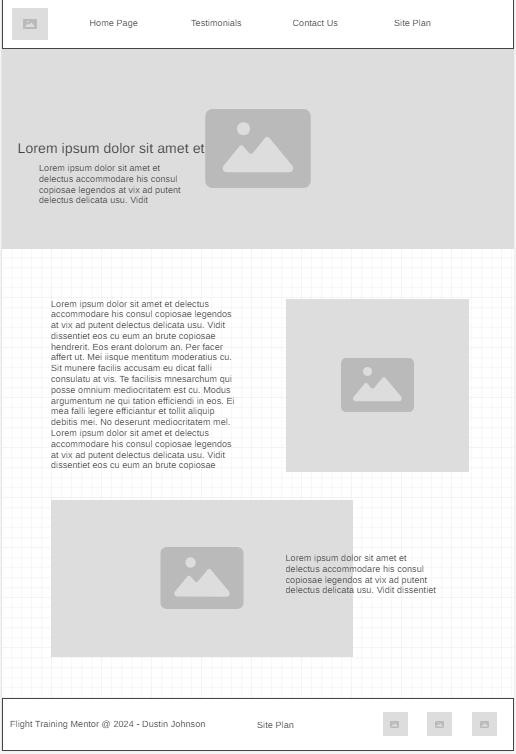
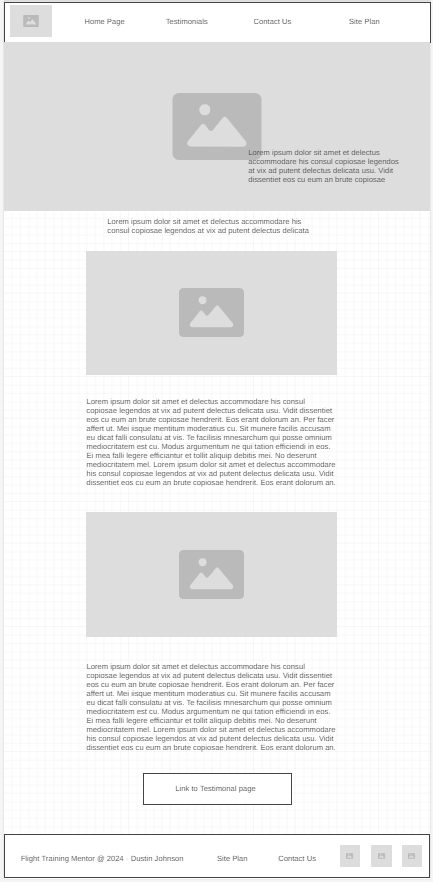
HOME PAGE COMLETE!

diff --git a/index.html b/index.html
@@ -3,6 +3,7 @@
 
 <head>
     <meta charset="UTF-8">
+    <meta http-equiv="X-UA-Compatible" content="IE=edge">
     <meta name="viewport" content="width=device-width, initial-scale=1.0">
     <title>Flight Training Mentor</title>
     <link rel="stylesheet" href="styles/index.css">
@@ -10,62 +11,79 @@
 </head>
 
 <body>
+    <div id="content">
+        <header>
+            <a id="logo_link" href="index.html">
+                <img class="logo" src="images/logo.png" alt="Flight Training Mentor Logo">
+            </a>
+            <nav>
+                <a href="index.html">Home Page</a>
+                <a href="page2.html">Testimonials</a>
+                <a href="contactus.html">Contact Us</a>
+                <a href="site-plan.html">Site Plan</a>
+            </nav>
+        </header>
 
-    <header>
-        <img class="logo-img" src="images/plane_1.png" alt="Flight Training Mentor Logo">
-        <nav>
-            <ul>
-                <li><a href="index.html">Home Page</a></li>
-                <li><a href="page2.html">Testimonials</a></li>
-                <li><a href="contactus.html">Contact Us</a></li>
-                <li><a href="site-plan.html">Site Plan</a></li>
-            </ul>
-        </nav>
-    </header>
-
-    <main>
-        <section class="Main-page-title">
-            <h1 class="Home-title">Flight Training Mentor</h1>
-            <h3 class="slogan">Fly High, Dream Big, Achieve More!</h3>
-            <img class="Main-img1" src="images/Plane_1.jpg" alt="Image of 3 Cessna 172 airplanes parked in front of sunset">
-        </section>
-        
-        <div class="Main-page-first-section">
-            <p class="about-homepage">Welcome to our vibrant and supportive community of seasoned aviation professionals and expert guides who are dedicated to steering you toward the achievement of your dream - obtaining a Private Pilot’s License! As you embark on your journey to becoming a proficient pilot, our home page stands as an invaluable resource, providing you with a gateway to acquiring a vast array of information tailored to empower aspiring aviators like yourself. As you pursue this journey, you will find a treasure trove of insights, tips, and guidance meticulously crafted to facilitate informed decision-making at every step of your flight training journey. Our mission is simple yet profound - to serve as your steadfast companion and trusted ally throughout the intricate and exhilarating process of obtaining your pilot’s license. Whether you're just taking your first steps into the world of aviation or are a seasoned enthusiast seeking to expand your horizons, our community is here to offer unwavering support and unparalleled expertise. No matter the question, we are committed to equipping you with the knowledge and resources necessary to soar to new heights of success. Our commitment to your success is unwavering, and we are dedicated to providing you with the tools and support you need to transform your dreams of flight into a tangible reality. We encourage you to peruse our testimonials page and success stories from individuals who have successfully acquired their private pilot licenses, sharing their gratitude for the invaluable guidance provided on this platform and expressing a wish that they had discovered it earlier in their aviation journey.</p>
-            <img class="Main-img2" src="images/Utah_View.jpg" alt="View of Utah mountains from aircraft window">
+        <div id="hero">
+            <div id="hero-box">
+                <img id="hero-img" src="images/Plane_3.jpg" alt="Image of multi engine aircraft">
+            </div>
+            <section id="home-msg">
+                <h1 class="home-title">Flight Training Mentor</h1>
+                <h4>Fly High, Dream Big, Achieve More!</h4>
+            </section>
         </div>
 
-        <div class="Main-page-second-section">
-            <p class="encourage-section">We encourage you to peruse our testimonials page and success stories from individuals who have successfully acquired their private pilot licenses, sharing their gratitude for the invaluable guidance provided on this platform and expressing a wish that they had discovered it earlier in their aviation journey.</p>
-            <img class="Main-img2" src="images/Plane_3.jpg" alt="Image of multi engine aircraft">
-            <ul>
-                <li><a href="page2.html">Testimonials</a></li>
-            </ul>
-        </div>
-    </main>
+        <main class="home-grid">
+            <article class="container">
+                <h2>Welcome to our dynamic community of experienced aviation mentors committed to guiding you towards your aviation aspirations</h2>
+                <img src="images/Utah_View.jpg" alt="View of Utah mountains from aircraft window">
+                <p>Discover our vibrant and supportive community of seasoned aviation
+                    professionals and expert guides who are dedicated to steering you toward the achievement of your
+                    dream - obtaining a Private Pilot’s License! As you embark on your journey to becoming a proficient
+                    pilot, our home page stands as an invaluable resource, providing you with a gateway to acquiring a
+                    vast array of information tailored to empower aspiring aviators like yourself.</p>
+                <p>As you pursue this
+                    journey, you will find a treasure trove of insights, tips, and guidance meticulously crafted to
+                    facilitate informed decision-making at every step of your flight training journey. Our mission is
+                    simple yet profound - to serve as your steadfast companion and trusted ally throughout the intricate
+                    and exhilarating process of obtaining your pilot’s license.</p>
+                <img src="images/Plane_1.jpg" alt="Image of 3 Cessna 172 airplanes parked in front of sunset">
+                <p>Whether you're just taking your first
+                    steps into the world of aviation or are a seasoned enthusiast seeking to expand your horizons, our
+                    community is here to offer unwavering support and unparalleled expertise. No matter the question, we
+                    are committed to equipping you with the knowledge and resources necessary to soar to new heights of
+                    success. Our commitment to your success is unwavering, and we are dedicated to providing you with
+                    the tools and support you need to transform your dreams of flight into a tangible reality.</p>
+                <p>We encourage you to peruse our testimonials page and success stories from individuals who have
+                    successfully acquired their private pilot licenses, sharing their gratitude for the invaluable
+                    guidance provided on this platform and expressing a wish that they had discovered it earlier in
+                    their aviation journey.</p>
 
-    <footer>
-        <div class="copyright">
+                <a class="join" href="page2.html">Testimonials</a>
+            </article>
+        </main>
+
+        <footer>
             <p>Flight Training Mentor &copy; 2024 - Dustin Johnson</p>
-            <a href="site-plan.html">Site Plan</a>
-        </div>
-        <div class="social">
-            <a href="https://facebook.com" target="_blank">
-                <img src="images/facebook.png" alt="fb icon">
-            </a>
-            <a href="https://twitter.com" target="_blank">
-                <img src="images/twitter.png" alt="twitter icon">
-            </a>
-            <a href="https://instagram.com" target="_blank">
-                <img src="images/instagram.png" alt="instagram icon">
-            </a>
-        </div>
-    </footer>
-    
+            <p><a href="site-plan.html">Site Plan</a></p>
+            <p><a href="contactus.html">Contact Us</a></p>
+            <div class="social">
+                <a href="https://facebook.com" target="_blank">
+                    <img src="images/facebook.png" alt="Facebook Icon">
+                </a>
+                <a href="https://twitter.com" target="_blank">
+                    <img src="images/twitter.png" alt="Twitter Icon">
+                </a>
+                <a href="https://instagram.com" target="_blank">
+                    <img src="images/instagram.png" alt="Instagram Icon">
+                </a>
+            </div>
+        </footer>
+    </div>
 </body>
 
 </html>
-
 
 
 <!-- Below you will find important notes from class -->

diff --git a/site-plan.html b/site-plan.html
@@ -20,7 +20,7 @@
       <hr>
       <h2>Overview</h2>
       <h3>Purpose</h3>
-      <p>Embark on an aviation journey with our website dedicated to help aspiring aviators on the path to becoming private pilots. We know navigating through flight training can be a daunting and confusing task. Our webpage helps simplify the journey by giving you the recorses to get expert advice from real-life aviators, ensuring you are well prepared for your training.</p>  <!-- change this -->
+      <p>Embark on an aviation journey with our website dedicated to help aspiring aviators on the path to becoming private pilots. We know navigating through flight training can be a daunting and confusing task. Our webpage provides the contact us page that will help simplify the journey by giving you expert advice from real-life aviators, ensuring you are well prepared for your training.</p>  <!-- change this -->
 
 
       <h3>Audience</h3>
@@ -124,7 +124,15 @@
       </h2>
       <h3>Home page</h3>
       <p>
-        Welcome to our vibrant and supportive community of seasoned aviation professionals and expert guides who are dedicated to steering you toward the achievement of your dream - obtaining a Private Pilot’s License! As you embark on your journey to becoming a proficient pilot, our home page stands as an invaluable resource, providing you with a gateway to acquiring a vast array of information tailored to empower aspiring aviators like yourself. As you pursue this journey, you will find a treasure trove of insights, tips, and guidance meticulously crafted to facilitate informed decision-making at every step of your flight training journey. Our mission is simple yet profound - to serve as your steadfast companion and trusted ally throughout the intricate and exhilarating process of obtaining your pilot’s license. Whether you're just taking your first steps into the world of aviation or are a seasoned enthusiast seeking to expand your horizons, our community is here to offer unwavering support and unparalleled expertise. No matter the question, we are committed to equipping you with the knowledge and resources necessary to soar to new heights of success. Our commitment to your success is unwavering, and we are dedicated to provide you with the tools and support you need to transform your dreams of flight into a tangible reality. We encourage you to peruse our testimonials page and success stories from individuals who have successfully acquired their private pilot licenses, sharing their gratitude for the invaluable guidance provided on this platform and expressing a wish that they had discovered it earlier in their aviation journey.
+        Welcome to our dynamic community of experienced aviation mentors committed to guiding you towards your aviation aspirations. 
+        
+        Discover our vibrant and supportive community of seasoned aviation professionals and expert guides who are dedicated to steering you toward the achievement of your dream - obtaining a Private Pilot’s License! As you embark on your journey to becoming a proficient pilot, our home page stands as an invaluable resource, providing you with a gateway to acquiring a vast array of information tailored to empower aspiring aviators like yourself.
+
+        As you pursue this journey, you will find a treasure trove of insights, tips, and guidance meticulously crafted to facilitate informed decision-making at every step of your flight training journey. Our mission is simple yet profound - to serve as your steadfast companion and trusted ally throughout the intricate and exhilarating process of obtaining your pilot’s license.
+
+        Whether you're just taking your first steps into the world of aviation or are a seasoned enthusiast seeking to expand your horizons, our community is here to offer unwavering support and unparalleled expertise. No matter the question, we are committed to equipping you with the knowledge and resources necessary to soar to new heights of success. Our commitment to your success is unwavering, and we are dedicated to providing you with the tools and support you need to transform your dreams of flight into a tangible reality.
+        
+        We encourage you to peruse our testimonials page and success stories from individuals who have successfully acquired their private pilot licenses, sharing their gratitude for the invaluable guidance provided on this platform and expressing a wish that they had discovered it earlier in their aviation journey.
       </p>
         <p>Images for the Home page</p>
         <img src="images/Plane_1.jpg" alt="Image of 3 Cessna 172 airplanes parked in front of sunset">
@@ -192,7 +200,7 @@
 
       <h3>Page 3</h3>
       <p>         
-        All text within the wireframe will be replaced with relevent text for the webpage. Page 3 will also incorporate a photo slide show of all the pictures form the web site right bellow the contact us box.
+        All text within the wireframe will be replaced with relevent text for the webpage. Page 3 will also incorporate a photo slide show of all the pictures shown on each page of the webpage.
       </p>
       <img src="images/Page3.png" alt="page 3 wireframe">
     </main>

diff --git a/styles/index.css b/styles/index.css
@@ -1,3 +1,153 @@
-.logoimg{
-    width: 50px
+@import url('https://fonts.googleapis.com/css2?family=Open+Sans:ital,wght@0,300..800;1,300..800&family=Playfair+Display:ital,wght@0,400..900;1,400..900&display=swap');
+
+
+nav {
+    display: flex;
+    justify-content: space-around;
+}
+nav a {
+    text-align: center;
+    color: burlywood;
+    text-decoration: none;
+    padding: 35px;
+}
+body {
+    background-color: #778DA9;
+    font-family: "Playfair+Display" , georgia, "Times New Roman", Times, serif;
+    font-size: 22px;
+    margin: 0;
+    padding: 0;
+}
+header {
+    display: grid;
+    grid-template-columns: 150px auto;
+    background-color: rgba(13, 27, 42, 0.9);
+}
+nav a:hover {
+    background-color: grey;
+    color: #1B263B;
+    border-radius: 50px;
+}
+.join {
+    background-color:burlywood;
+    color: black;
+    text-decoration: none;
+    font-size: 18px;
+    padding: 15px 30px;
+    margin-top: 50px;
+    border-radius: 5px;
+}
+.join:hover {
+    background-color: grey;
+    color: #1B263B;
+}
+footer {
+    background-color: #0D1B2A;
+    color: white;
+    padding: 25px 50px;
+    margin-top: 250px;
+    display: flex;
+    justify-content: space-around;
+    align-items: center;
+}
+.home-title {
+    color: burlywood;
+    font-family: "Open Sans", Tahoma, Arial, Helvetica, sans-serif;
+    font-size: 2.5em;
+    margin-top: auto;
+    margin-bottom: .5px;
+    text-align: center;
+}
+h4 {
+    color: burlywood;
+    font-size: 1.1em;
+    text-align: center;
+    margin-top: 10px;
+}
+footer a {
+    color: white;
+    text-decoration: none;
+}
+footer a:hover {
+    color: burlywood;
+}
+.icon {
+    width: 80px;
+    padding-top: 10px;
+}
+.logo {
+    width: 100px;
+}
+#hero-img {
+    width: 100%;
+    border: 4px solid black;
+    border-radius: 80px; 
+    box-shadow: 0 4px 6px rgba(0, 0, 0, 0.1);
+}
+footer p {
+    font-size: 1.2em;
+}
+footer p a:hover {
+    text-decoration: underline;
+}
+#logo_link {
+    padding-top: 5px;
+    justify-self: center;
+    align-self: center;
+}
+footer .social img {
+    padding-top: 10px;
+}
+#hero {
+    display: grid;
+    grid-template-columns: 1fr 1fr 3fr;
+    grid-template-rows: 2.5fr 3fr;
+    margin-top: -100px;
+}
+#hero-box {
+    grid-column: 1/4;
+    grid-row: 1/3;
+    z-index: -1;
+}
+#home-msg {
+    grid-column: 3/3;
+    grid-row: 2/2;
+    margin-top: 180px;
+}
+.home-grid {
+    display: grid;
+    /* padding: 1rem; */
+    grid-template-columns: 1000px 1fr;
+    gap: 1rem;
+    align-items: center;
+    max-width: 1000px;
+    margin: 0 auto;
+    font: 500 100%/1.5 system-ui;
+    color: white;
+}
+.container img {
+    max-width: 100%;
+    height: auto;
+    border: 4px solid black;
+    border-radius: 50px; 
+    box-shadow: 0 4px 6px rgba(0, 0, 0, 0.1);
+    margin-bottom: 30px;
+    margin-top: 30px;
+  }
+.container {
+    position: relative;
+}
+.join {
+    position: absolute;
+    /* bottom: 10px; */
+    left: 50%;
+    transform: translateX(-50%);
+    font-size: 2.25em;
+    padding: 22.5px 45px;
+    border: 1.5px solid black;
+    border-radius: 15px;
+}
+h2 {
+    text-align: center;
+    margin-top: 50px;
 }

diff --git a/styles/site-plan.css b/styles/site-plan.css
@@ -17,14 +17,14 @@ Fonts are separated by a | */
 
   /* these colors below should be chosen from among your palette colors above */
   --headline-color-on-white: #0D1B2A;  /* headlines on a white background */ 
-  --headline-color-on-color: burlywood; /* headlines on a colored background */ 
+  --headline-color-on-color: white; /* headlines on a colored background */ 
   --paragraph-color-on-white: #1B263B; /* paragraph text on a white background */ 
-  --paragraph-color-on-color: burlywood; /* paragraph text on a colored background */ 
-  --paragraph-background-color: #1B263B;
+  --paragraph-color-on-color: white; /* paragraph text on a colored background */ 
+  --paragraph-background-color: #778DA9;
   --nav-link-color: burlywood;
   --nav-background-color: #0D1B2A;
   --nav-hover-link-color: #1B263B;
-  --nav-hover-background-color: burlywood;
+  --nav-hover-background-color: grey;
 }
 
 
